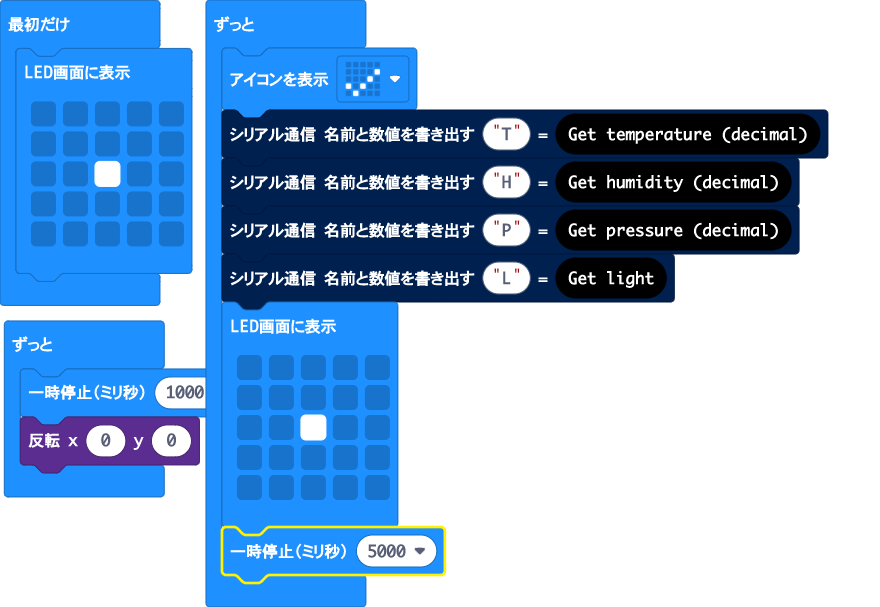
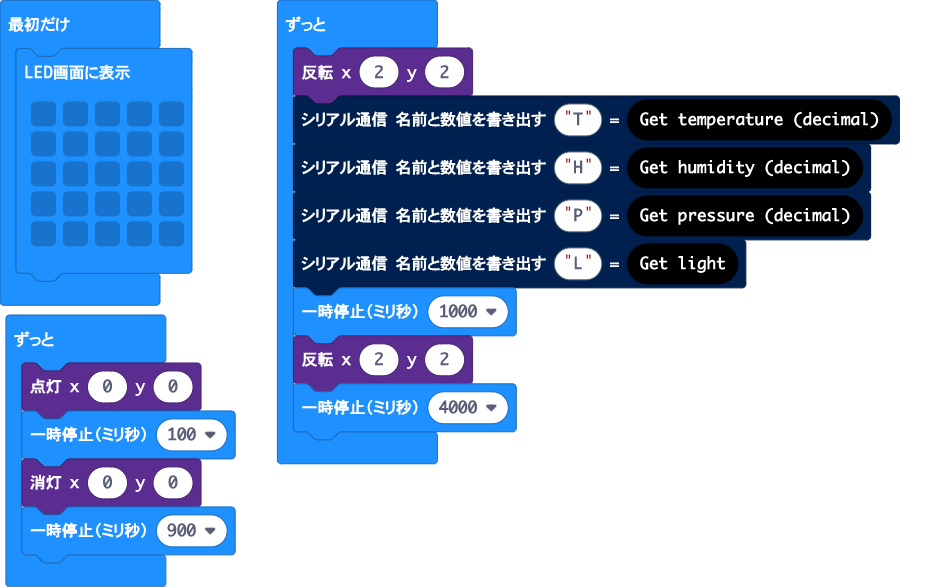
点滅リズムの変更

diff --git a/main.ts b/main.ts
@@ -1,26 +1,23 @@
 basic.showLeds(`
     . . . . .
     . . . . .
-    . . # . .
+    . . . . .
     . . . . .
     . . . . .
     `)
 basic.forever(function () {
-    basic.showIcon(IconNames.Yes)
+    led.toggle(2, 2)
     serial.writeValue("T", envirobit.getTemperatureDecimal())
     serial.writeValue("H", envirobit.getHumidityDecimal())
     serial.writeValue("P", envirobit.getPressureDecimal())
     serial.writeValue("L", envirobit.getLight())
-    basic.showLeds(`
-        . . . . .
-        . . . . .
-        . . # . .
-        . . . . .
-        . . . . .
-        `)
-    basic.pause(5000)
+    basic.pause(1000)
+    led.toggle(2, 2)
+    basic.pause(4000)
 })
 basic.forever(function () {
-    basic.pause(1000)
-    led.toggle(0, 0)
+    led.plot(0, 0)
+    basic.pause(100)
+    led.unplot(0, 0)
+    basic.pause(900)
 })
